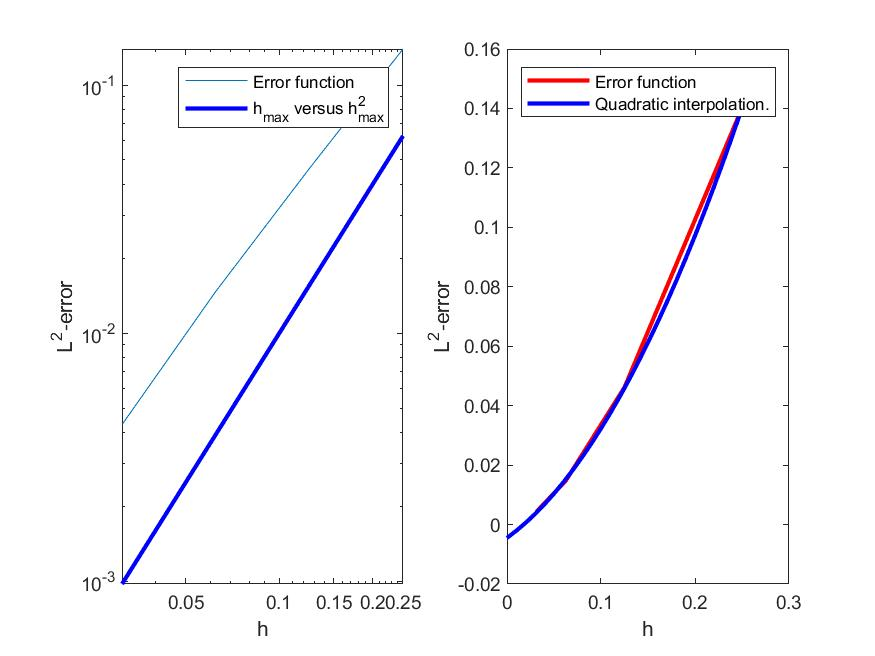
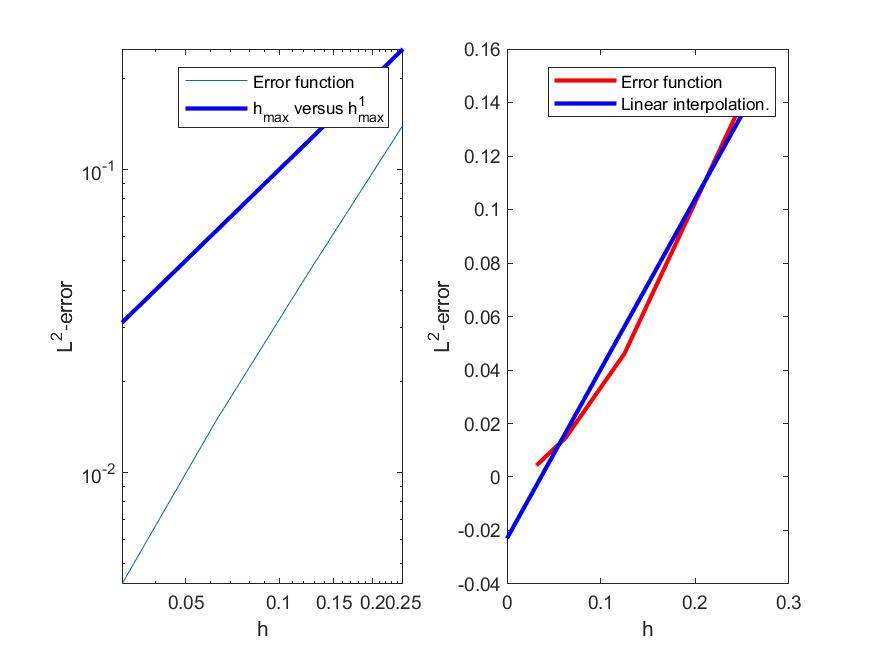
finalized plots

diff --git a/FEM_Assign1/Code/RunPart1.m b/FEM_Assign1/Code/RunPart1.m
@@ -1,5 +1,7 @@
 Problem11();
+close all;
 Problem12();
+close all;
 Problem13();
 close all;
 
@@ -37,17 +39,17 @@ function Problem12()
     ylabel('L^2-error')
     % ... plot h_max vs h_max^2 on the same plot
     hold on
-    loglog(h, h.^2, 'b', 'linewidth', 2)
-    legend('Error function', 'h_{max} versus h_{max}^{2}')
+    loglog(h, h.^1, 'b', 'linewidth', 2)
+    legend('Error function', 'h_{max} versus h_{max}^{1}')
     xlabel('h')
     ylabel('L^2-error')
-    % ... plot parabola    
-    coeffs = polyfit(h, L2Errors, 2);
+    % ... plot interpolation
+    coeffs = polyfit(h, L2Errors, 1);
     x = linspace(0,1/4,26);
-    y = coeffs(1)*x.^2 + coeffs(2)*x + coeffs(3);
+    y = coeffs(1)*x + coeffs(2);
     subplot(1,2,2)
     plot(h, L2Errors, 'r', x, y, 'b', 'linewidth', 2)
-    legend('Error function', 'Quadratic interpolation.')
+    legend('Error function', 'Linear interpolation.')
     xlabel('h')
     ylabel('L^2-error')
     print('../Plots/problem_1_2_convergence_fit','-djpeg')
@@ -79,6 +81,7 @@ function Problem13()
 
     % Plot h vs L2Error
     figure;
+    subplot(1,2,1)
     loglog(h, L2Errors);
     xlabel('h')
     ylabel('L^2-error')
@@ -86,6 +89,15 @@ function Problem13()
     hold on
     loglog(h, h.^1, 'b', 'linewidth', 2)
     legend('Error function', 'h_{max} versus h_{max}^{1}')
+    xlabel('h')
+    ylabel('L^2-error')    
+    % ... plot interpolation    
+    coeffs = polyfit(h, L2Errors, 1);
+    x = linspace(0,1/4,26);
+    y = coeffs(1)*x + coeffs(2);
+    subplot(1,2,2)
+    plot(h, L2Errors, 'r', x, y, 'b', 'linewidth', 2)
+    legend('Error function', 'Linear interpolation.')
     xlabel('h')
     ylabel('L^2-error')    
     print('../Plots/problem_1_3_errors','-djpeg')
